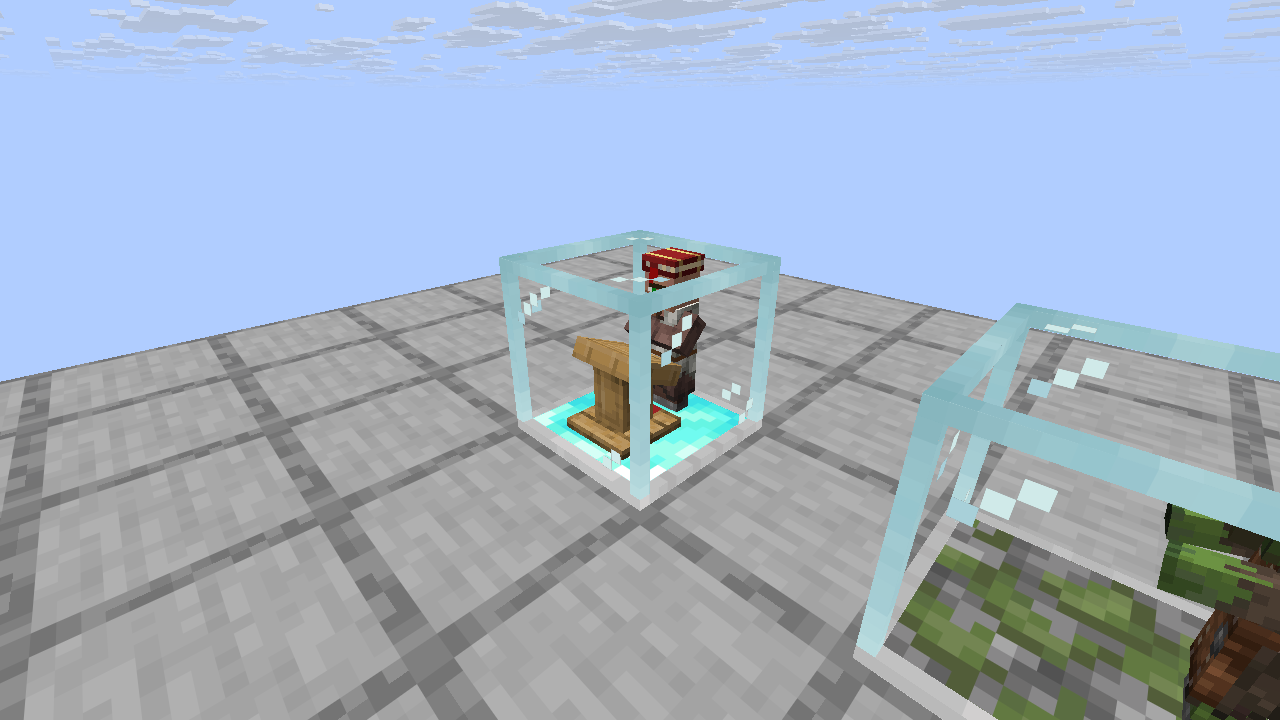
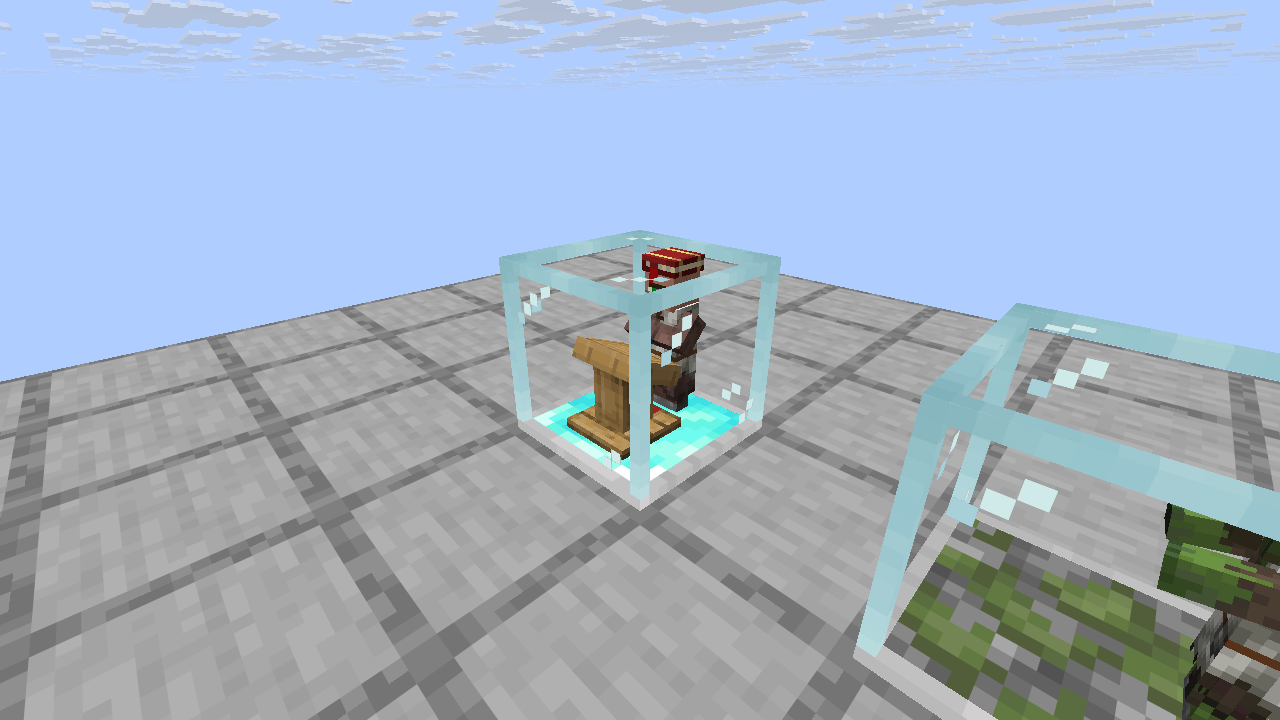
Base Briber appearance on Incubator with emerald floor

diff --git a/neoforge-26.1.2/src/main/java/net/gasharaujo/easyvillageraddon/MachineRenderer.java b/neoforge-26.1.2/src/main/java/net/gasharaujo/easyvillageraddon/MachineRenderer.java
@@ -21,6 +21,7 @@ public final class MachineRenderer extends TraderRendererBase<MachineEntity> {
 
     public MachineRenderer(EntityModelSet models, BlockModelResolver blocks) { super(models, blocks); }
     public static final class State extends TraderRenderState {
+        boolean incubator;
         boolean converter;
         boolean renderZombie;
         final ZombieVillagerRenderState zombie = new ZombieVillagerRenderState();
@@ -30,6 +31,7 @@ public final class MachineRenderer extends TraderRendererBase<MachineEntity> {
     @Override public void extractRenderState(MachineEntity machine, TraderRenderState renderState, float partialTicks, Vec3 position, ModelFeatureRenderer.CrumblingOverlay overlay) {
         super.extractRenderState(machine, renderState, partialTicks, position, overlay);
         State state = (State) renderState;
+        state.incubator = machine.kind() == MachineKind.BRIBER;
         state.converter = machine.kind() == MachineKind.DESNEURALIZER;
         state.renderZombie = state.converter && minecraft.level != null;
         if (!state.renderZombie) return;
@@ -41,6 +43,16 @@ public final class MachineRenderer extends TraderRendererBase<MachineEntity> {
 
     @Override public void submit(TraderRenderState renderState, PoseStack pose, SubmitNodeCollector collector, CameraRenderState camera) {
         State state = (State) renderState;
+        if (state.incubator) {
+            if (!state.renderVillager) return;
+            pose.pushPose();
+            pose.translate(0.5D, 1D / 16D, 0.5D);
+            pose.mulPose(Axis.YP.rotationDegrees(-state.direction.toYRot()));
+            pose.scale(0.45F, 0.45F, 0.45F);
+            getVillagerRenderer().submit(state.villagerRenderState, pose, collector, camera);
+            pose.popPose();
+            return;
+        }
         if (!state.converter) { super.submit(state, pose, collector, camera); return; }
         if (state.renderVillager) {
             pose.pushPose();

diff --git a/neoforge-1.21.1/src/main/java/net/gasharaujo/easyvillageraddon/MachineRenderer.java b/neoforge-1.21.1/src/main/java/net/gasharaujo/easyvillageraddon/MachineRenderer.java
@@ -17,6 +17,17 @@ public final class MachineRenderer extends VillagerRendererBase<MachineEntity> {
     public MachineRenderer(BlockEntityRendererProvider.Context context) { super(context); }
 
     @Override public void render(MachineEntity machine, float partialTicks, PoseStack pose, MultiBufferSource buffer, int light, int overlay) {
+        if (machine.kind() == MachineKind.BRIBER) {
+            if (machine.getVillagerEntity() == null) return;
+            var direction = machine.isFakeWorld() ? net.minecraft.core.Direction.SOUTH : machine.getBlockState().getValue(MachineBlock.FACING);
+            pose.pushPose();
+            pose.translate(0.5D, 1D / 16D, 0.5D);
+            pose.mulPose(Axis.YP.rotationDegrees(-direction.toYRot()));
+            pose.scale(0.45F, 0.45F, 0.45F);
+            getVillagerRenderer().render(machine.getVillagerEntity(), 0F, 1F, pose, buffer, light);
+            pose.popPose();
+            return;
+        }
         if (machine.kind() != MachineKind.DESNEURALIZER) {
             TraderRenderer.renderTraderBase(getVillagerRenderer(), machine, partialTicks, pose, buffer, light, overlay);
             return;

diff --git a/forge-1.20.1/src/main/java/net/gasharaujo/easyvillageraddon/MachineRenderer.java b/forge-1.20.1/src/main/java/net/gasharaujo/easyvillageraddon/MachineRenderer.java
@@ -18,6 +18,17 @@ public final class MachineRenderer extends VillagerRendererBase<MachineEntity> {
 
     @Override public void render(MachineEntity machine, float partialTicks, PoseStack pose, MultiBufferSource buffer, int light, int overlay) {
         super.render(machine, partialTicks, pose, buffer, light, overlay);
+        if (machine.kind() == MachineKind.BRIBER) {
+            if (machine.getVillagerEntity() == null) return;
+            var direction = machine.isFakeWorld() ? net.minecraft.core.Direction.SOUTH : machine.getBlockState().getValue(MachineBlock.FACING);
+            pose.pushPose();
+            pose.translate(0.5D, 1D / 16D, 0.5D);
+            pose.mulPose(Axis.YP.rotationDegrees(-direction.toYRot()));
+            pose.scale(0.45F, 0.45F, 0.45F);
+            villagerRenderer.render(machine.getVillagerEntity(), 0F, 1F, pose, buffer, light);
+            pose.popPose();
+            return;
+        }
         if (machine.kind() != MachineKind.DESNEURALIZER) {
             TraderRenderer.renderTraderBase(villagerRenderer, machine, partialTicks, pose, buffer, light, overlay);
             return;

diff --git a/README.md b/README.md
@@ -8,7 +8,7 @@ Dependência obrigatória: [Easy Villagers](https://github.com/henkelmax/easy-vi
 
 ## Estado do projeto
 
-Versão `1.0.0`, com quatro blocos e telas específicas:
+Versão `1.0.1`, com quatro blocos e telas específicas:
 
 - **Advanced Trader:** escolhe uma troca de um villager de nível 1 sem XP e repete
   o sorteio normal do Minecraft até encontrá-la. Preserva o conjunto completo
@@ -59,9 +59,10 @@ As quatro receitas usam uma bancada 3 × 3 e produzem um bloco:
 Fraqueza prolongada; duração curta, outras poções e arremessáveis não servem.
 As receitas são liberadas no livro ao obter o bloco central correspondente.
 
-Advanced Trader, Briber e Leveler herdam a caixa de vidro do Auto Trader,
-substituindo somente o piso de netherita por diamante, esmeralda e quartzo,
-respectivamente. O Desneuralizer herda o Converter, com um zombie villager
+Advanced Trader e Leveler herdam a caixa de vidro do Auto Trader,
+substituindo somente o piso de netherita por diamante e quartzo,
+respectivamente. O Briber herda o Incubator, com piso de esmeralda e villager
+centralizado. O Desneuralizer herda o Converter, com um zombie villager
 no lugar do zumbi. O villager em processamento e as bancadas aparecem dentro
 dos blocos. Os modelos e texturas são referenciados diretamente do Easy Villagers
 e do Minecraft, preservando a aparência de resource packs. Os blocos podem ser
@@ -69,7 +70,7 @@ orientados nas quatro direções horizontais ao colocar ou rotacionar.
 
 Da esquerda para a direita: Advanced Trader, Desneuralizer, Briber e Leveler.
 
-![Blocos da versão 1.0 no Minecraft](docs/blocks/machines.png)
+![Blocos no Minecraft](docs/blocks/machines.png)
 
 ## Interface e pesquisa
 

diff --git a/verification/RESULTS.md b/verification/RESULTS.md
@@ -1,6 +1,12 @@
 # Verificação em 14/10/2026
 
-Versão: `1.0.0`.
+Versão atual: `1.0.1`.
+
+A correção 1.0.1 troca a referência visual do Briber para o Incubator,
+mantendo o piso de esmeralda e centralizando o villager. A compilação foi
+verificada nas três plataformas; o servidor e a captura gráfica dessa correção
+foram verificados no NeoForge 26.1.2. A matriz completa abaixo registra os
+testes da versão 1.0.0, cujas receitas e lógica não foram alteradas.
 
 | Plataforma | Compilação final | Servidor com Easy Villagers |
 | --- | --- | --- |
@@ -74,8 +80,9 @@ Exemplos estão em `docs/ui`.
 
 O marcador `ADDON_CLIENT_MODELS_PASSED count=4` confirma os quatro renderizadores
 nativos registrados e a captura da galeria e de cada bloco no mundo. Os itens
-são desenhados na mão e na hotbar. A caixa do Auto Trader preserva vidro e
-estrutura, com os pisos de diamante/esmeralda/quartzo; o Desneuralizer usa
+são desenhados na mão e na hotbar. Advanced Trader e Leveler usam a caixa do
+Auto Trader com pisos de diamante e quartzo; o Briber usa Incubator com piso
+de esmeralda e villager centralizado. O Desneuralizer usa
 Converter com um zombie villager renderizado no lugar do zumbi.
 Capturas sem edição da galeria e dos quatro blocos estão em `docs/blocks`.
 

diff --git a/CHANGELOG.md b/CHANGELOG.md
@@ -1,3 +1,8 @@
+# 1.0.1
+
+- Corrige o visual do Briber para usar o Incubator com piso de esmeralda e
+  villager centralizado, tanto no mundo quanto no inventário.
+
 # 1.0.0
 
 - Receitas definitivas com painéis de vidro, blocos do Easy Villagers e os
